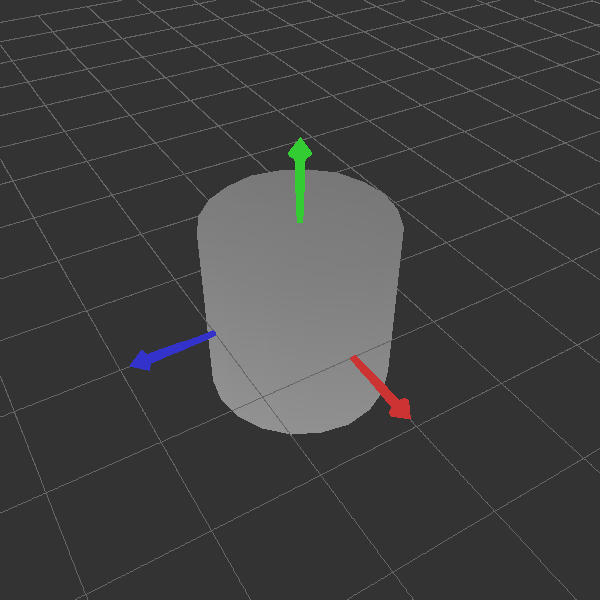
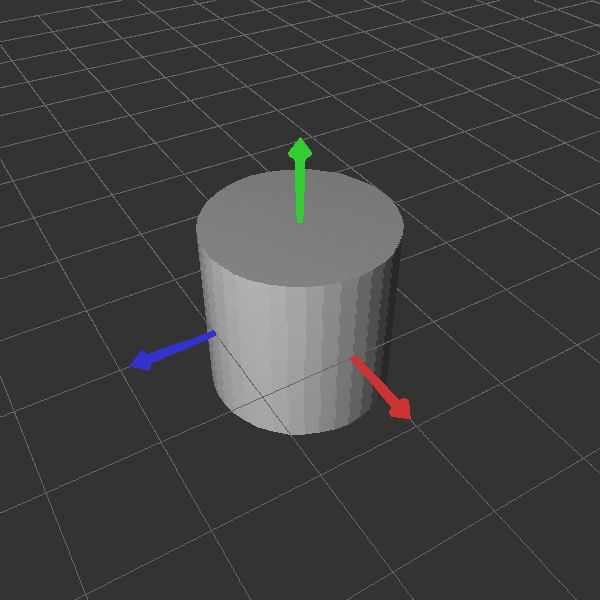
shading off

Changed region(s): [[0.33, 0.42, 0.54, 0.69], [0.54, 0.39, 0.69, 0.72]]

diff --git a/model/src/modeler/shape/Cylinder.java b/model/src/modeler/shape/Cylinder.java
@@ -61,7 +61,7 @@ public class Cylinder extends Shape {
 		// for (Point3i triangle : triangles) {
 		// 	System.out.println(triangle);
 		// }
-		System.out.println("-------------------------");
+		// System.out.println("-------------------------");
 
 		//Build the mesh data arrays from the static mesh data
 		int vertLength = vertices.length;
@@ -98,8 +98,8 @@ public class Cylinder extends Shape {
 	int generateFacets(float flatnessTolerance)
 	{
 		//todo .014 should be 20 facets
-
 		int numFacets = 20;
+
 		return numFacets;
 	}
 
@@ -107,7 +107,7 @@ public class Cylinder extends Shape {
 	{	
 		int numVertices = numFacets+1;
 		double angleIncrement = 360.0f / numFacets;
-		Point3f[] vertices = new Point3f[numVertices*2];
+		Point3f[] vertices = new Point3f[numVertices*2*2];
 
 		// Calculate vertices for the bottom layer
 		for (int i=0; i < numVertices; i++) {
@@ -136,15 +136,20 @@ public class Cylinder extends Shape {
 			}
 		}
 
+		// Duplicate the vertices for the bottom and top layers to be used for sides
+		System.arraycopy(vertices, 0, vertices, numVertices * 2, numVertices);
+		System.arraycopy(vertices, numVertices, vertices, numVertices * 3, numVertices);
+
 		return vertices;
 	}
 
 	Vector3f[] generateNormals(int numFacets)
 	{
 		int numNormals = numFacets+1;
-		Vector3f[] normals = new Vector3f[numNormals*2];
+		double angleIncrement = 360.0f / numFacets;
+		Vector3f[] normals = new Vector3f[numNormals*2*2];
 
-		//generate normals for base layer
+		//generate normals for bottom layer
 		Vector3f bottomNormal = new Vector3f(0.0f, -1.0f, 0.0f);
 		for (int i = 0; i < numNormals; i++) {
             normals[i] = bottomNormal;
@@ -156,6 +161,26 @@ public class Cylinder extends Shape {
 		for (int i = numNormals; i < numNormals*2; i++) {
 			normals[i] = topNormal;
 		}
+		
+		//generate normals for side vertices (bottom layer)
+		for (int i = numNormals*2; i < numNormals*3; i++) 
+		{
+			double angle= (i-numNormals*2) * angleIncrement;
+			float x = CYLINDER_RADIUS * cos(Math.toRadians(angle));
+			float z = CYLINDER_RADIUS * sin(Math.toRadians(angle));
+			normals[i] = new Vector3f(x, 0.0f, z);
+			normals[i].normalize();
+		}
+
+		//generate normals for side vertices (top layer)
+    	for (int i = numNormals*3; i < numNormals*4; i++) 
+		{
+			double angle=(i-numNormals*3) * angleIncrement;
+			float x = CYLINDER_RADIUS * cos(Math.toRadians(angle));
+			float z = CYLINDER_RADIUS * sin(Math.toRadians(angle));
+			normals[i] = new Vector3f(x, 0.0f, z);
+			normals[i].normalize();
+    	}
 
 		return normals;
 	}
@@ -179,8 +204,6 @@ public class Cylinder extends Shape {
 			{
 				vertex2 = 0;
 			}
-
-            // Create the triangle using the vertex indices
             triangles[i] = new Point3i(vertex1, vertex2, vertex3);
         }
 
@@ -199,32 +222,30 @@ public class Cylinder extends Shape {
 			{
 				vertex2 = start;
 			}
-
 			// Create the triangle using the vertex indices, backwards to make it front facing
 			triangles[i-1] = new Point3i(vertex3, vertex2, vertex1);
 		}
 
-		//generate sides of triangle using existing vertices
-		int triangleIndex=numFacets*2;
-		for (int i = 0; i < numFacets; i++) {
-			int bottomVertex1 = i;
-			int bottomVertex2 = i + 1;
+		//generate sides of triangle using duplicated vertices
+		//account for the extra origin vertices
+		int sideStart = numFacets * 2;
+		for (int i = sideStart; i < numFacets*3; i++)
+		{
+			int bottomVertex1 = i+2;
+			int bottomVertex2 = i+2+1;
 
-			int topVertex1 = i + (numFacets+1);
-			int topVertex2 = i + (numFacets+1) + 1;
+			int topVertex1 = i+(numFacets+3);
+			int topVertex2 = i+(numFacets+3)+1;
 
 			//ensure last triangle loops back
-			if (i == numFacets-1)
+			if (i == numFacets*3-1)
 			{
-				bottomVertex2 = 0;
-				topVertex2 = numFacets+1;
+				bottomVertex2 = sideStart+2;
+				topVertex2 = sideStart+(numFacets+3);
 			}
 
-			triangles[triangleIndex] = new Point3i(bottomVertex1, topVertex1, bottomVertex2);
-			triangleIndex++;
-			triangles[triangleIndex] = new Point3i(bottomVertex2, topVertex1, topVertex2);
-			triangleIndex++;
-
+			triangles[i] = new Point3i(bottomVertex1, topVertex1, bottomVertex2);
+			triangles[i + numFacets] = new Point3i(bottomVertex2, topVertex1, topVertex2);
 		}
 
 		return triangles;
